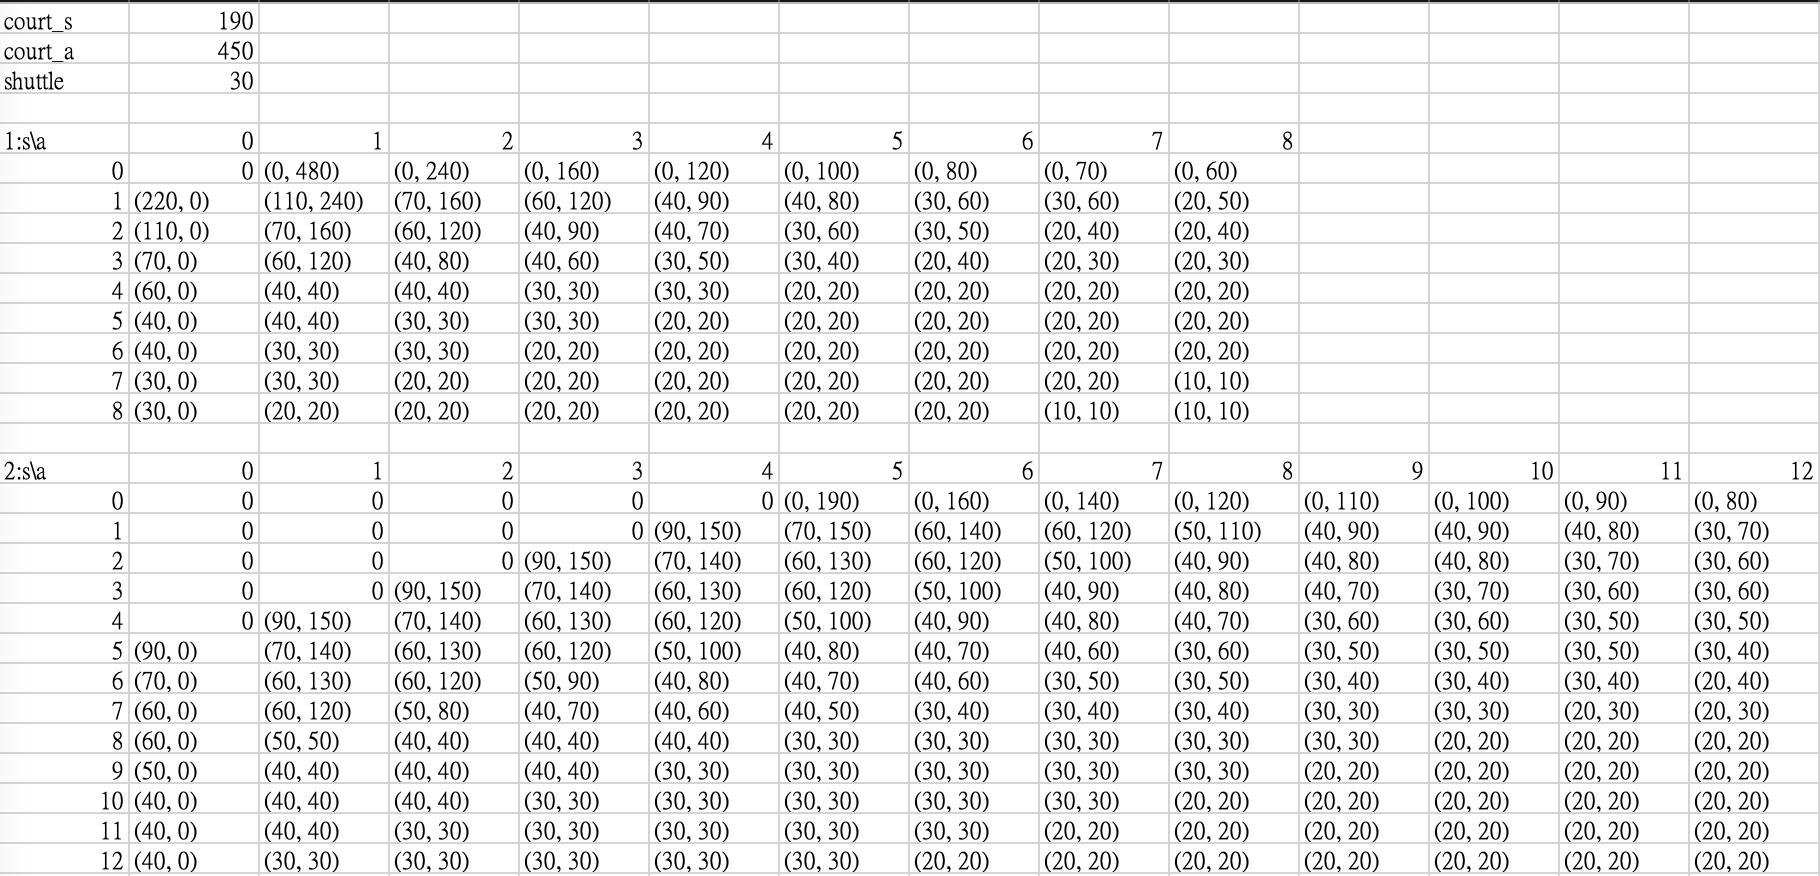
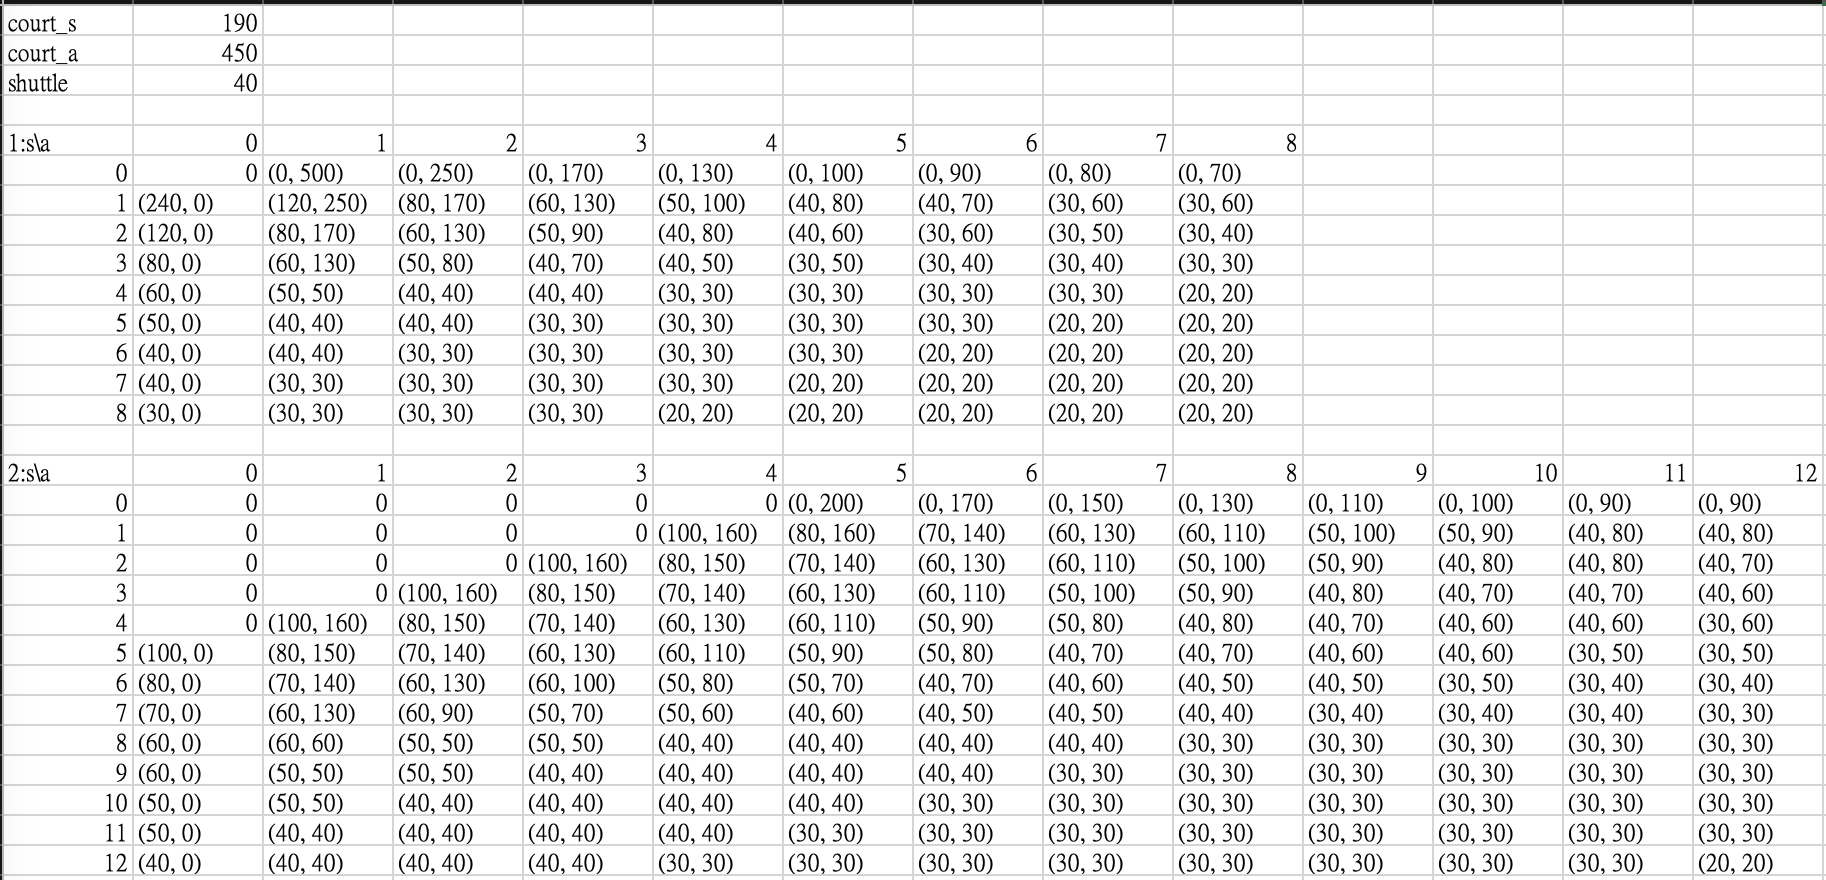
add tip

diff --git a/price_calculator/price_table.py b/price_calculator/price_table.py
@@ -4,9 +4,10 @@ import math
 court_price_student = 190
 court_price_alumni  = 450
 
+padding_tip    = 5   # for rounding at the last step
 bucket_price   = 250 # total price of a bucket of shuttlecocks
 shuttle_number = 12  # number of shuttlecocks per bucket
-shuttle_used   = 1.5 # average number of shuttlecocks used per court per hour
+shuttle_used   = 2 # average number of shuttlecocks used per court per hour
 shuttle_price  = shuttle_used * (bucket_price/shuttle_number)
 
 def calculate_price_table(num_court, max_student, max_alumni):
@@ -32,7 +33,8 @@ def calculate_price_table(num_court, max_student, max_alumni):
                     mix_court_price = ((num_alumni%4)*court_price_alumni + min(4-num_alumni%4,num_student)*court_price_student) / ((num_alumni%4)+min(4-num_alumni%4,num_student))
                     court_price = full_alumni_court_price + mix_court_price + max(0,(num_court - 1 - (num_alumni//4))) * court_price_student
             
-            final_price_per_student = (court_price_student * num_court + shuttle_price * num_court) / (num_student + num_alumni)
+            final_price_per_student  = (court_price_student * num_court + shuttle_price * num_court) / (num_student + num_alumni)
+            final_price_per_student += padding_tip
             if num_alumni == 0:
                 final_price_per_alumni = 0
             else:
@@ -51,8 +53,8 @@ if __name__ == '__main__':
     with open(os.path.join(dir_path, "price_table.csv"), "w") as csvfile:
         csvwriter = csv.writer(csvfile)
 
-        csvwriter.writerow(["court_s",190])
-        csvwriter.writerow(["court_a",450])
+        csvwriter.writerow(["court_s",court_price_student])
+        csvwriter.writerow(["court_a",court_price_alumni])
         csvwriter.writerow(["shuttle",int(round(shuttle_price,-1))])
 
         csvwriter.writerow([])
